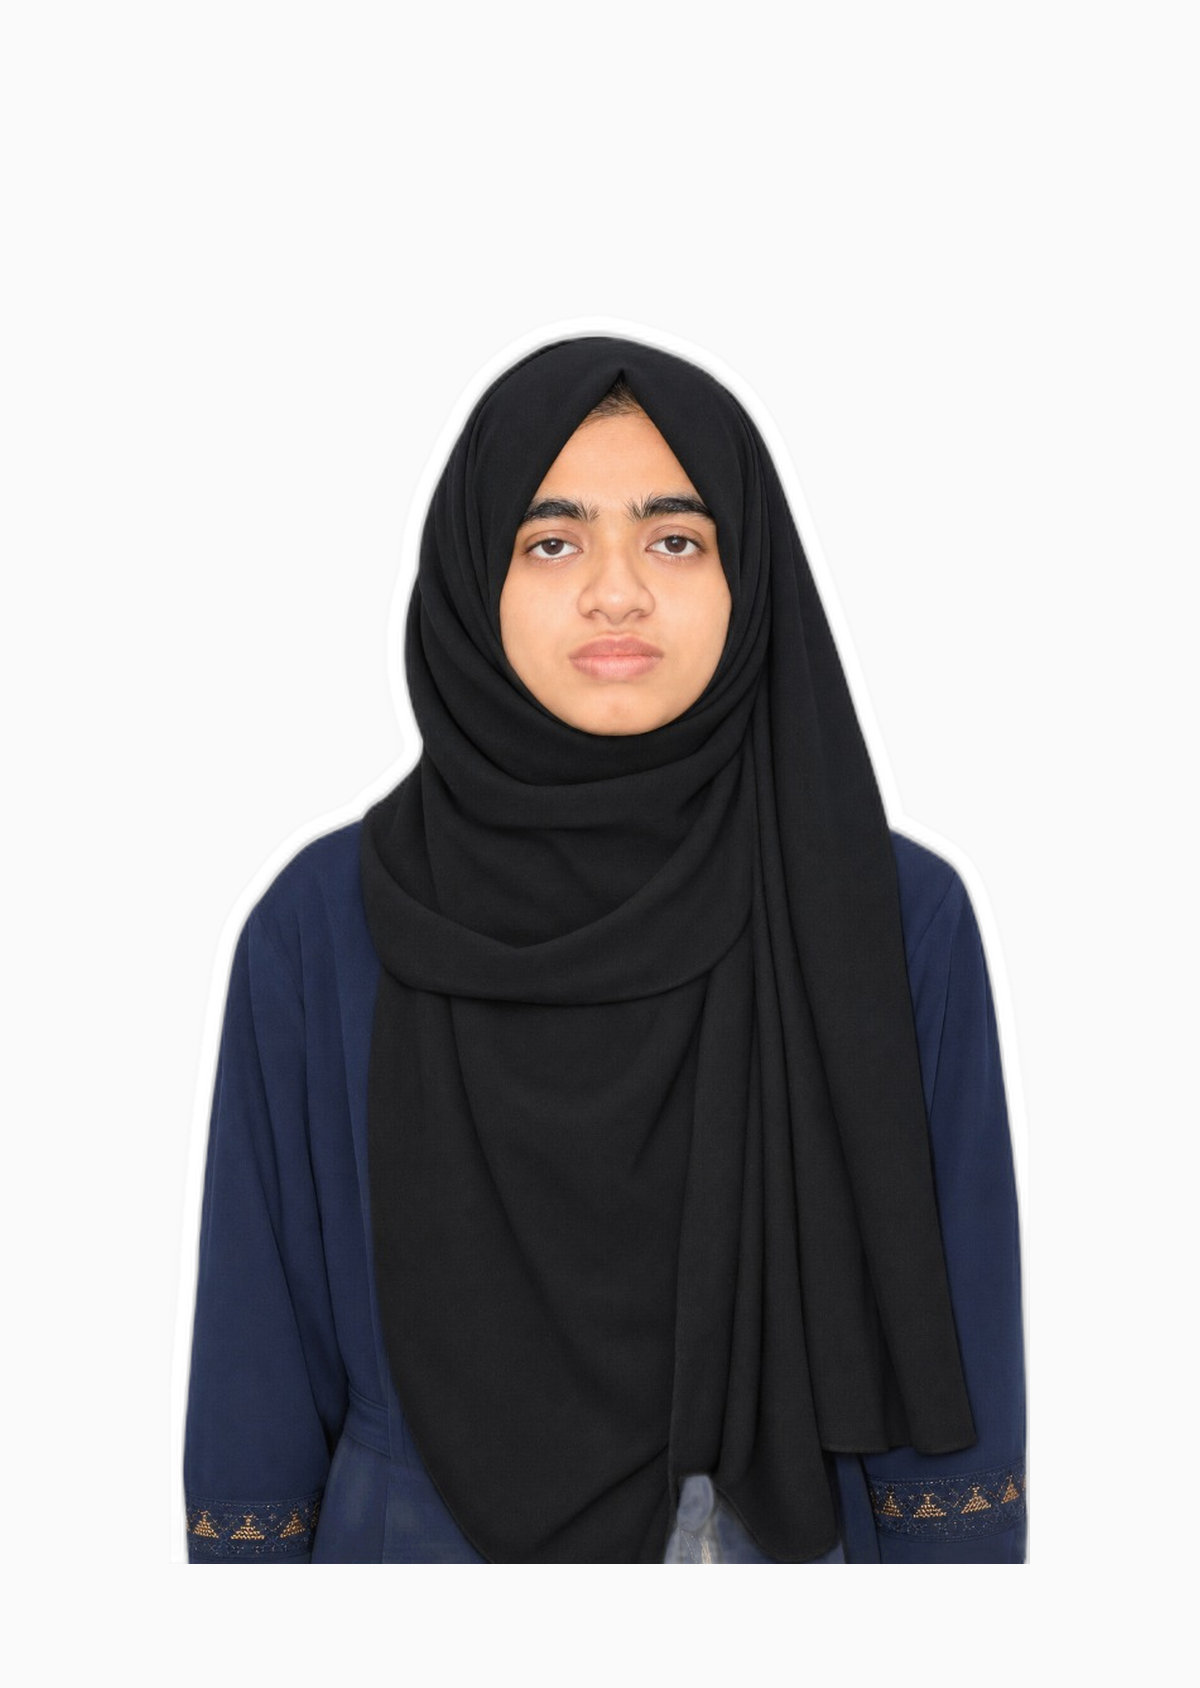
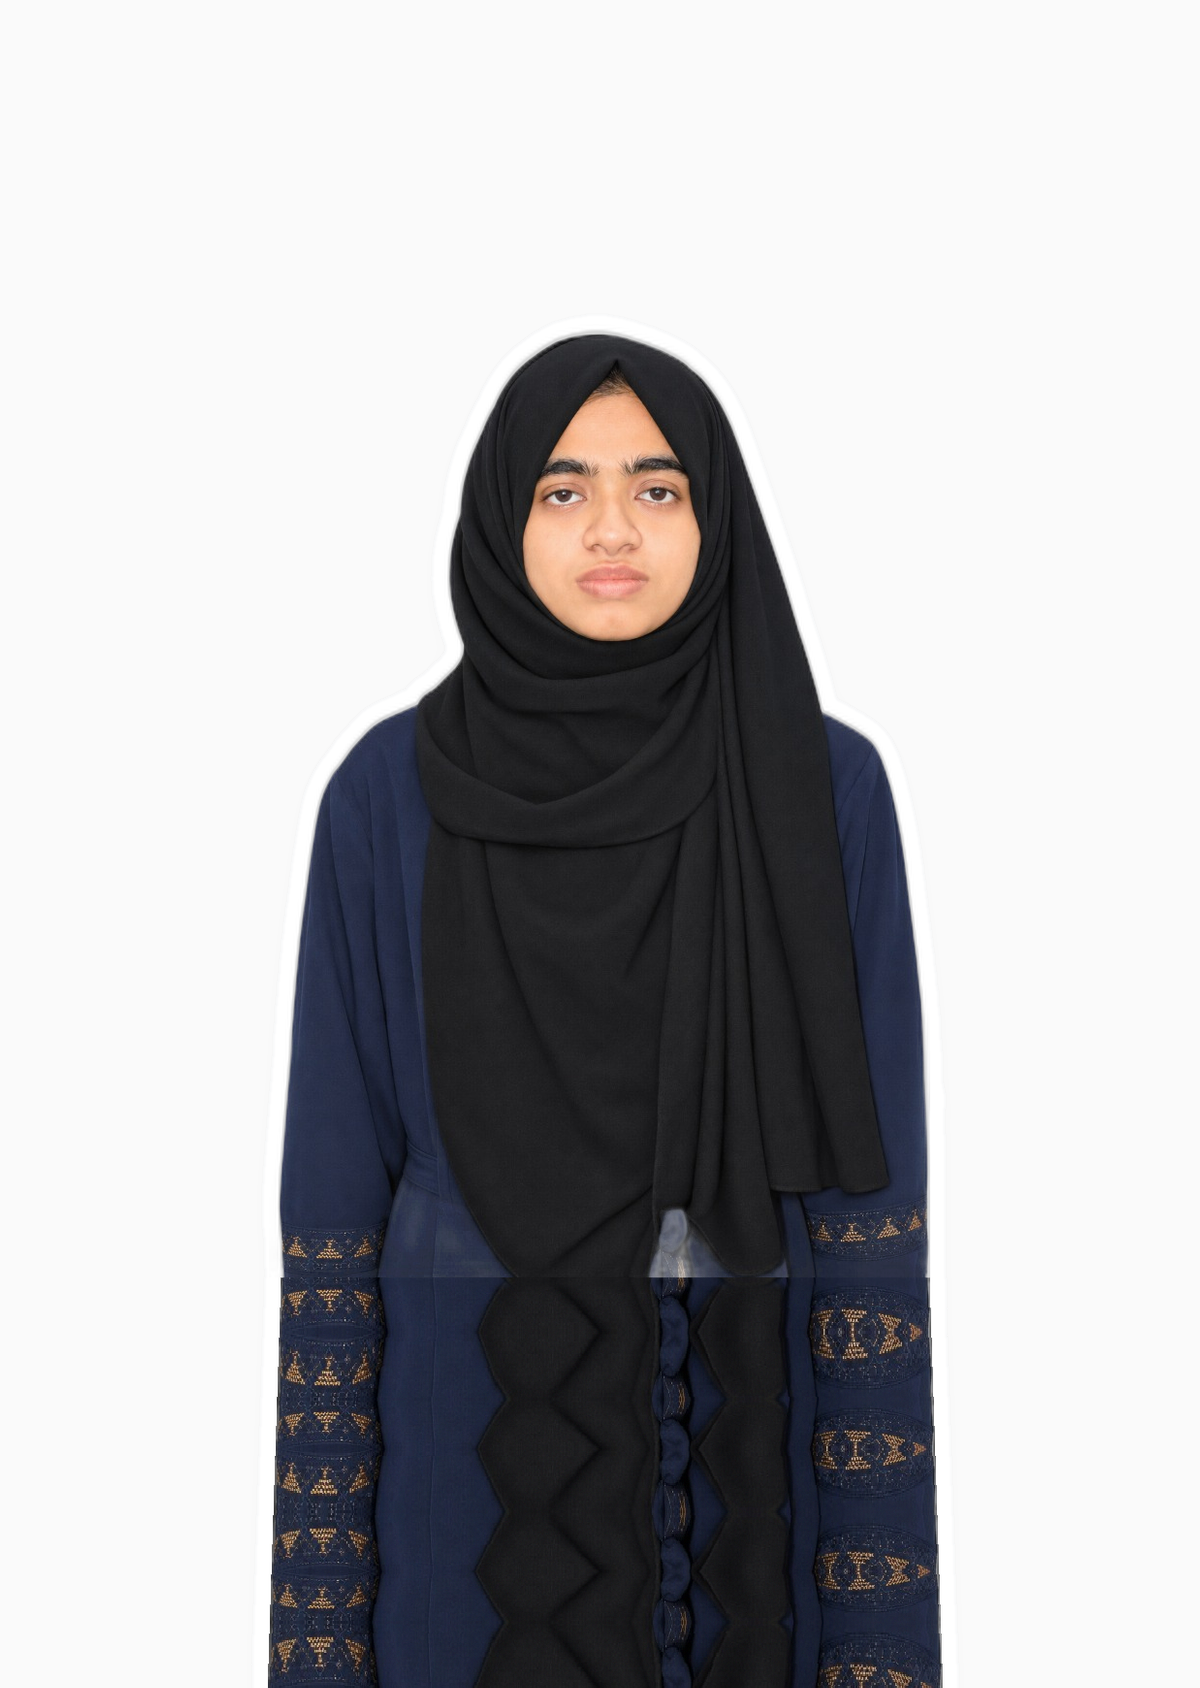
feat(team): extend Aathiqa badge portrait seamlessly to bottom edge

Changed region(s): [[0.1542, 0.2156, 0.8633, 1.0], [0.4317, 0.1848, 0.4625, 0.2156], [0.4008, 0.2156, 0.4317, 0.2464]]

diff --git a/lanyardStage.js b/lanyardStage.js
@@ -894,7 +894,7 @@ export function initUnifiedLanyardStage() {
       name: 'Aathiqa',
       role: 'Coding',
       handle: '@aathiqa',
-      front: '/assets/badge_atheeqa_color.png?v=20261114_color',
+      front: '/assets/badge_atheeqa_color.png?v=20261115_full_bottom',
       strap: '#0077ff',
       color: '#ffffff',
       metal: 'silver',
